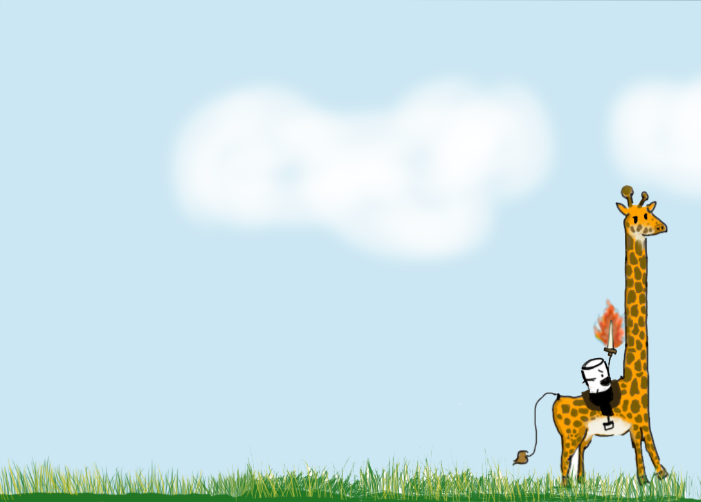
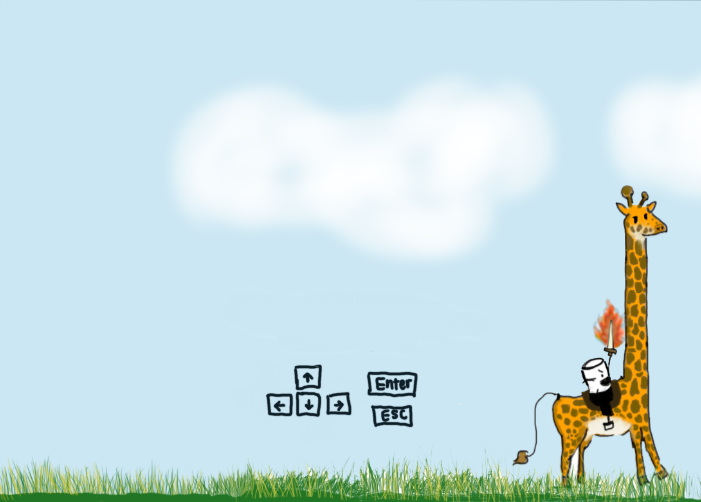
added how to

Changed region(s): [[0.3595, 0.7171, 0.5991, 0.8665]]

diff --git a/src/DMMC/Game.java b/src/DMMC/Game.java
@@ -143,12 +143,14 @@ public class Game extends GraphicsProgram implements ActionListener{
 	Entity e;
 	private int timerIndex;
 	GImage giraffe;
+	GImage howto;
 
 	public void init()
 	{
 		this.resize(windowWidth, windowHeight);
 		profiles = new ArrayList<Profile>();
 		giraffe =  new GImage("../media/Images/warrior.png");
+		howto = new GImage("../media/Images/howto.png");
 		//read the profiles text file instead of hardcoding
 		try {
 			for (String line : Files.readAllLines(Paths.get("../media/profiles.txt")))
@@ -274,14 +276,14 @@ public class Game extends GraphicsProgram implements ActionListener{
 	}
 
 	//made this class because load credits, options, and leaderboards have the same code
-	private void loadBasic(Boolean back)
+	private void loadBasic(Boolean back, GImage bg)
 	{
 		removeAll();
 		
 		
 		int levelX = windowWidth/tileWidth;
 		int levelY = windowHeight/tileHeight;
-		GuiScreen tmp = new GuiScreen(levelX, levelY, giraffe);
+		GuiScreen tmp = new GuiScreen(levelX, levelY, bg);
 		currentScreen=tmp;
 		GButton button1;
 		if (back)
@@ -346,7 +348,7 @@ public class Game extends GraphicsProgram implements ActionListener{
 
 	private void loadUserSelect()
 	{
-		loadBasic(false);
+		loadBasic(false, giraffe);
 		addUsers();
 		GLabel title = new GLabel("Welcome!", windowWidth/2, 50);
 		add(title);
@@ -418,7 +420,7 @@ public class Game extends GraphicsProgram implements ActionListener{
 			storeGameState.push(gameState);
 			storeScreen.push(currentScreen);
 		}
-		loadBasic(true);
+		loadBasic(true, giraffe);
 		GLabel label = new GLabel("Game Music Volume: ", 0, 100);
 		add(label);
 	}
@@ -429,7 +431,7 @@ public class Game extends GraphicsProgram implements ActionListener{
 			storeGameState.push(gameState);
 			storeScreen.push(currentScreen);
 		}
-		loadBasic(true);
+		loadBasic(true, giraffe);
 		GLabel label = new GLabel("Programmers: Malvika Sriram, Pranav Thirunavukkarasu, Maxine Lien, Brendan Ahdoot", 0, 100);
 		add (label);
 	}
@@ -440,9 +442,7 @@ public class Game extends GraphicsProgram implements ActionListener{
 			storeGameState.push(gameState);
 			storeScreen.push(currentScreen);
 		}
-		loadBasic(true);
-		GLabel label1 = new GLabel("How to Play Super S'more Seige:", 0, 100);
-		add(label1);
+		loadBasic(true, howto);
 	}
 
 	private void loadLeaderboards()
@@ -451,7 +451,7 @@ public class Game extends GraphicsProgram implements ActionListener{
 			storeGameState.push(gameState);
 			storeScreen.push(currentScreen);
 		}
-		loadBasic(true);
+		loadBasic(true, giraffe);
 		GLabel label1 = new GLabel("Leaderboards", 0, 100);
 		add(label1);
 	}
@@ -462,7 +462,7 @@ public class Game extends GraphicsProgram implements ActionListener{
 			storeGameState.push(gameState);
 			storeScreen.push(currentScreen);
 		}
-		loadBasic(true);
+		loadBasic(true, giraffe);
 		GLabel label1 = new GLabel("Leaderboards: "+ scores, 0, 100);
 		add(label1);
 	}
